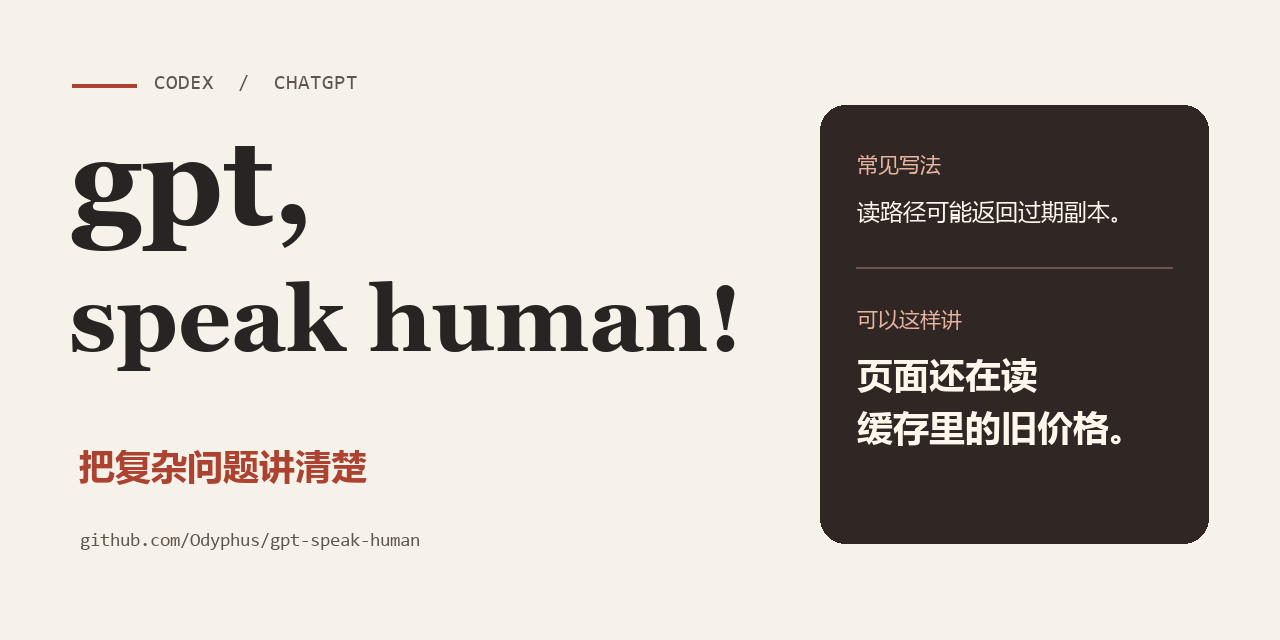
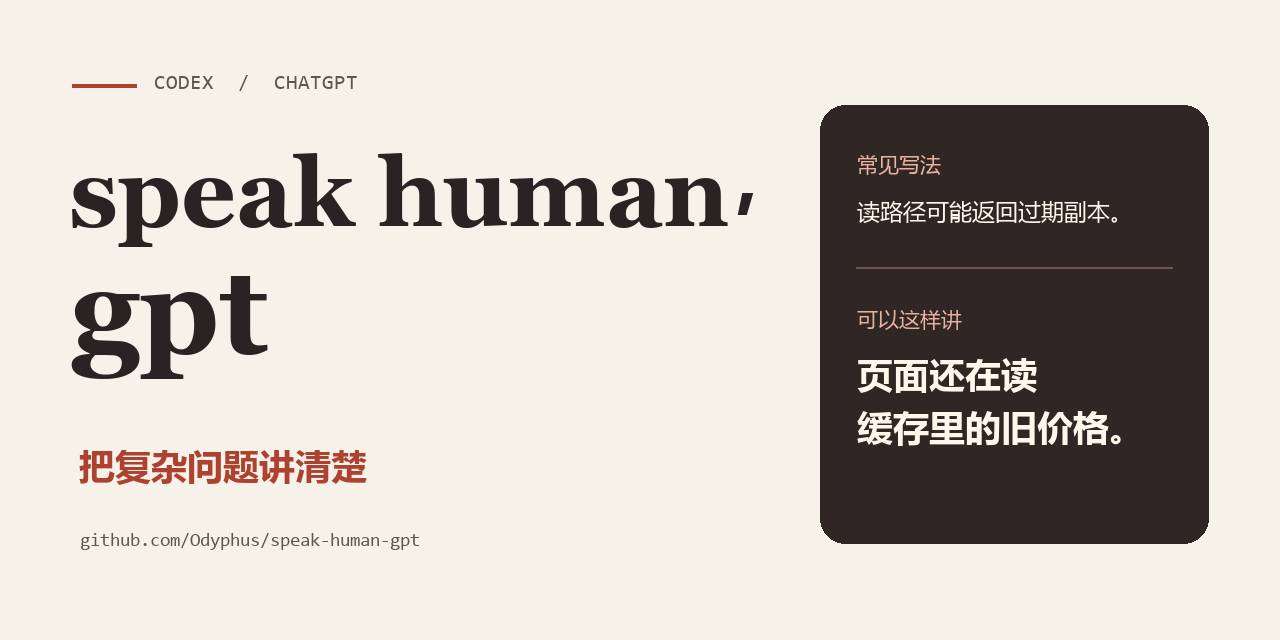
Rename the project to speak human, gpt

Changed region(s): [[0.0312, 0.2188, 0.5938, 0.4062], [0.0312, 0.4375, 0.5938, 0.5938], [0.2188, 0.8125, 0.3125, 0.875]]

diff --git a/README.md b/README.md
@@ -1,4 +1,4 @@
-# gpt,speak human!
+# speak human，gpt
 
 **让 GPT 说人话，把复杂问题讲清楚。**
 
